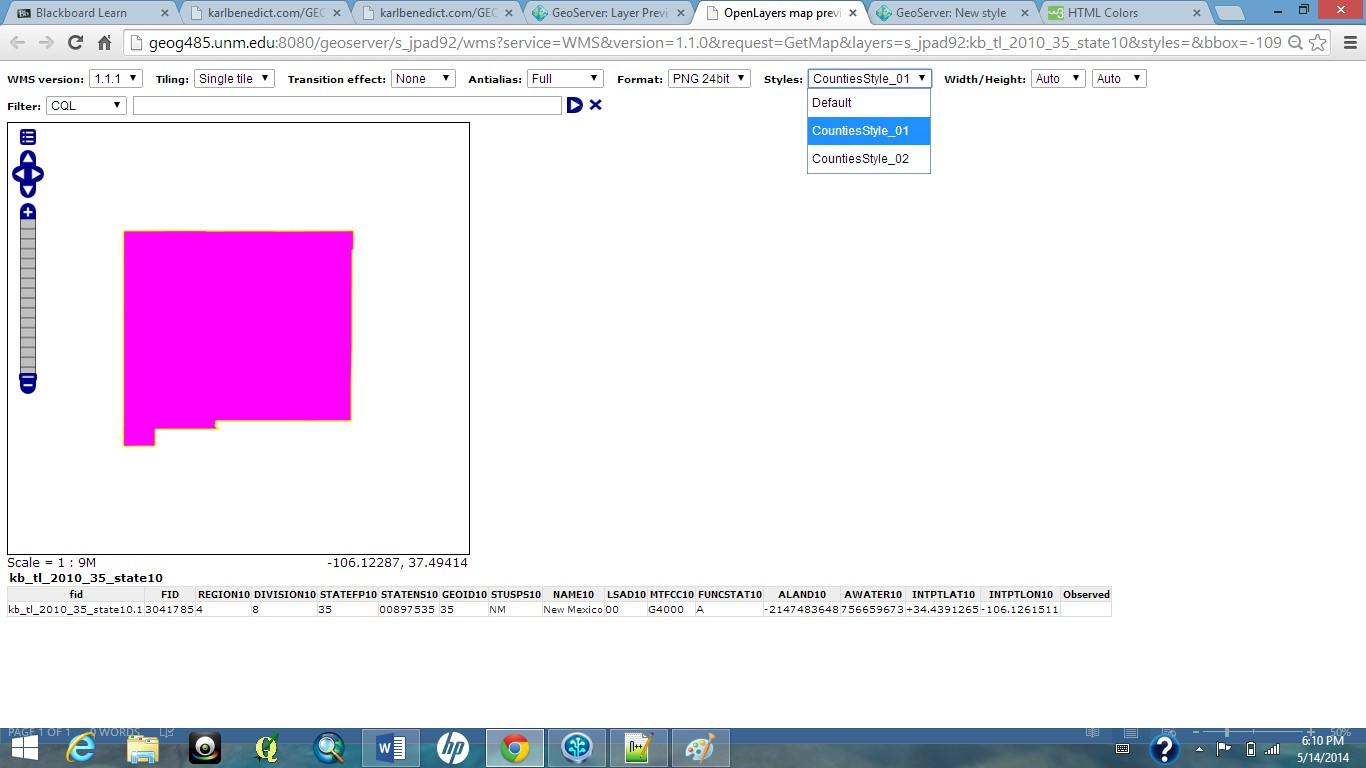
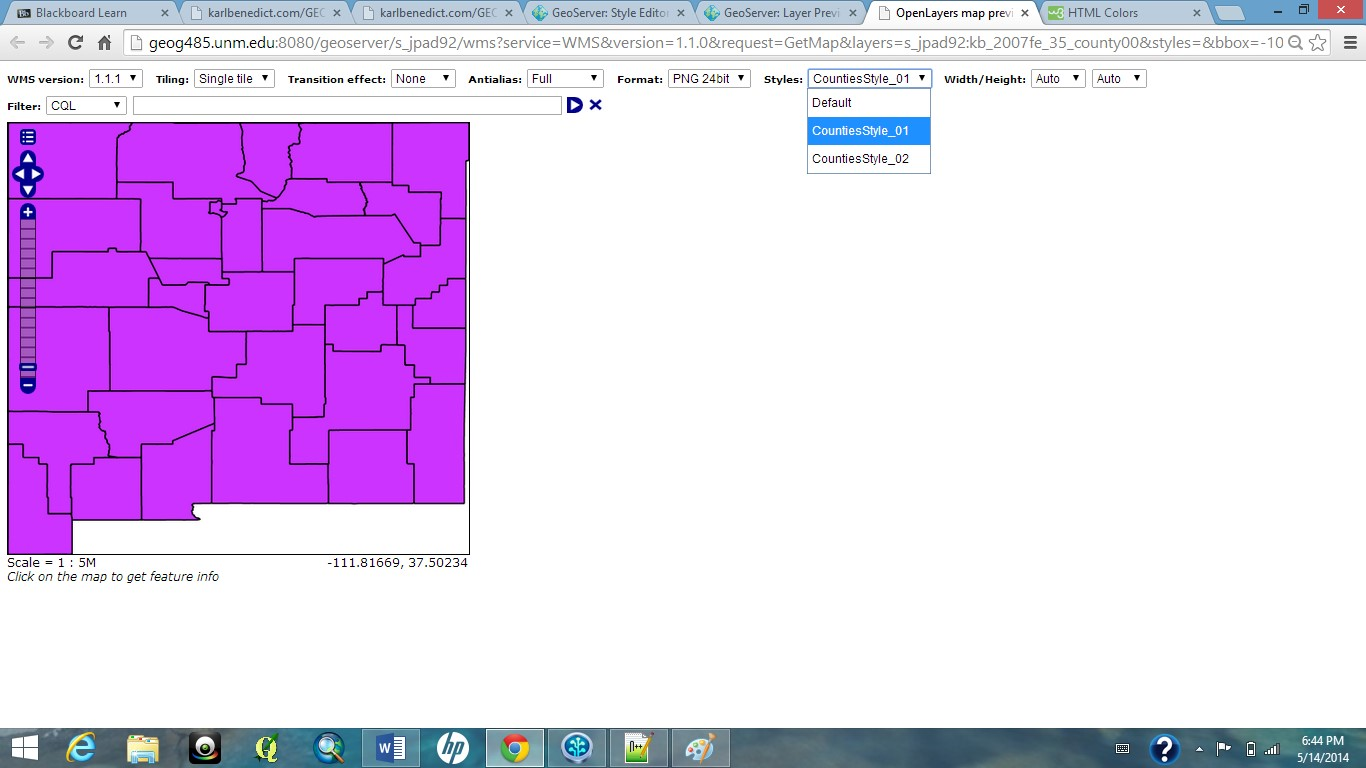
work

diff --git a/milestone_12.html b/milestone_12.html
@@ -1,0 +1,55 @@
+html>
+		<style>
+			body { height: 100%;
+				margin: 0px;
+				padding: 0px;
+				background-color: black;
+				color: #CCCCCC;
+				text-align: left;
+				font-family: verdana;
+				}
+		</style>
+    <h1 align="center">Styling of Layers in GeoServer- Milestone 12</h1>
+	<h2 align="center">Jenna Padilla</h2><br>
+	<br>
+	<br>
+	<p><b>Layer Name</b>:kb_tl_2010_35_state10<p>
+	<p><b>Style Name</b>:StateStyle_01<p>
+	<p><b>Style Name</b>:StateStyle_02<p>
+	<br>
+	<br>
+	<br>
+	<img src=http://jpad92.github.io/GEOG-485/M12-statestyles01.jpg></a>
+	<br>
+	<br>
+	<img src=http://jpad92.github.io/GEOG-485/M12-statestyles02.jpg></a>
+	<br>
+	<br>
+	<br>
+	<p><b>Layer Name</b>:kb_nm_statsgo_09<p>
+	<p><b>Style Name</b>:SoilsStyle_01<p>
+	<p><b>Style Name</b>:SoilsStyle_02<p>
+	<br>
+	<br>
+	<br>
+	<img src=http://jpad92.github.io/GEOG-485/M12-soilsstyles01.jpg></a>
+	<br>
+	<br>
+	<img src=http://jpad92.github.io/GEOG-485/M12-soilsstyles02.jpg></a>
+	<br>
+	<br>
+	<br>
+	<p><b>Layer Name</b>:kb_2007fe_35_county00<p>
+	<p><b>Style Name</b>:CountiesStyle_01<p>
+	<p><b>Style Name</b>:CountiesStyle_02<p>
+	<br>
+	<br>
+	<br>
+	<img src=http://jpad92.github.io/GEOG-485/M12-countystyles01.jpg></a>
+	<br>
+	<br>
+	<img src=http://jpad92.github.io/GEOG-485/M12-countystyles02.jpg></a>
+	<br>
+	<br>
+	<br>
+

diff --git a/homepage.html b/homepage.html
@@ -48,6 +48,7 @@
 			<p><a href="http://jpad92.github.io/GEOG-485/milestone_09.html">Milestone 9</a></p>
 			<p><a href="http://jpad92.github.io/GEOG-485/milestone_10.html">Milestone 10</a></p>
 			<p><a href="http://jpad92.github.io/GEOG-485/milestone_11.html">Milestone 11</a></p>
+			<p><a href="http://jpad92.github.io/GEOG-485/milestone_12.html">Milestone 12</a></p>
 			<h2>Deep Dives</h2>
 			<p><a href="http://jpad92.github.io/GEOG-485/deepdive1.html">Deep Dive 1</a></p>
 			<p><a href="http://jpad92.github.io/GEOG-485/deepdive2.html">Deep Dive 2</a></p>

diff --git a/index.html b/index.html
@@ -24,6 +24,7 @@
 			<p><a href="http://jpad92.github.io/GEOG-485/milestone_09.html">Milestone 9</a></p>
 			<p><a href="http://jpad92.github.io/GEOG-485/milestone_10.html">Milestone 10</a></p>
 			<p><a href="http://jpad92.github.io/GEOG-485/milestone_11.html">Milestone 11</a></p>
+			<p><a href="http://jpad92.github.io/GEOG-485/milestone_12.html">Milestone 12</a></p>
 			<h2>Deep Dives</h2>
 			<p><a href="http://jpad92.github.io/GEOG-485/deepdive1.html">Deep Dive 1</a></p>
 			<p><a href="http://jpad92.github.io/GEOG-485/deepdive2.html">Deep Dive 2</a></p>

diff --git a/milestone_11.html b/milestone_11.html
@@ -21,6 +21,8 @@
 	<h3>Question 2</h3>
 	<p>I would use a <u>man</u> command to read the "manual page" for a specific command.</p>
 	
+	<h2 align="center">Adding Data to Geoserver</h2>
+	
 	<h3>Question 3</h3>
 	<br>
 	<br>
